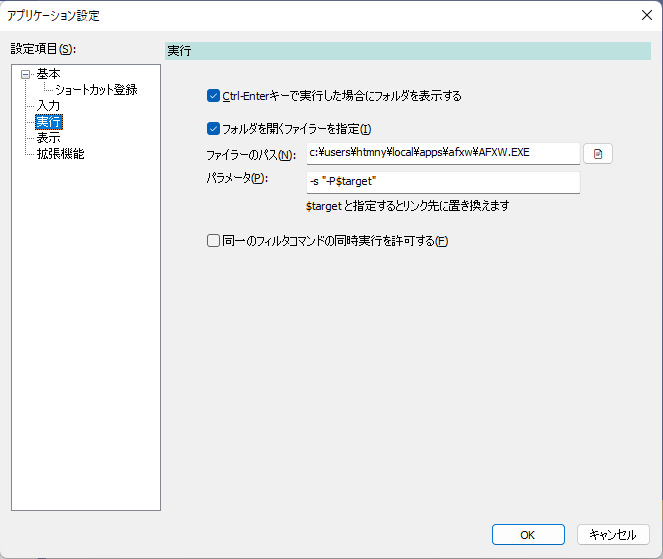
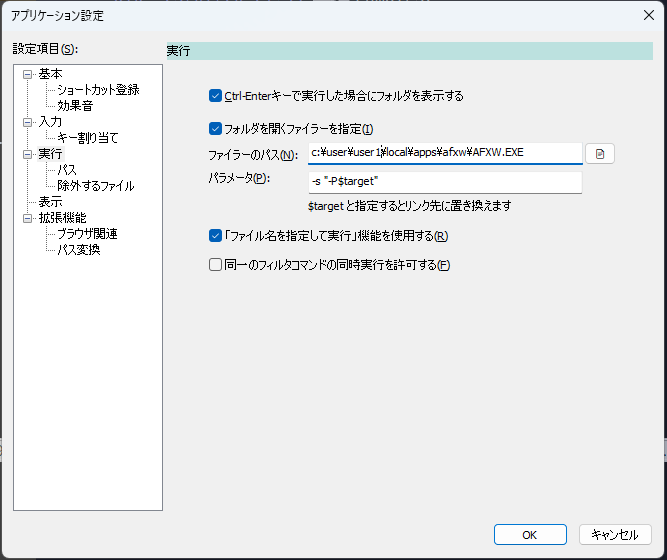
ドキュメント更新

diff --git a/doc/help.md b/doc/help.md
@@ -498,6 +498,9 @@ mp3ファイルのみ指定可能(他の音声ファイルには非対応)
   - `ファイラーのパス`で指定したファイラーを起動するときのパラメータを指定する
   - `$target`が実際に開かれる対象(ファイルやディレクトリ)のパスに置き換えられる
 
+- `「ファイル名を指定して実行」機能を使用する`
+  - チェックすると、 [`ファイル名を指定して実行`](#ファイル名を指定して実行) コマンドを有効にする。
+
 - `同一のフィルタコマンドの同時実行を許可する`
   - フィルタコマンドを実行したときに表示されるフィルタ画面が複数表示されるのを抑制する
 
@@ -526,6 +529,23 @@ mp3ファイルのみ指定可能(他の音声ファイルには非対応)
   - クリックすると、`追加のディレクトリ`リスト上の選択項目を一つ上に移動する
 - `下へ`
   - クリックすると、`追加のディレクトリ`リスト上の選択項目を一つ下に移動する
+
+#### 実行＞除外するファイル
+
+[`ファイル名を指定して実行`](#ファイル名を指定して実行) コマンドにおいて、対象外とするファイルを指定することができる。  
+
+
+![](../image/appsetting-excludefile.png)
+
+- `除外するファイル`
+  - ここで登録したファイルが候補としてマッチした場合でも、候補に表示しないようにする。
+
+- `追加`
+  - クリックすると、ファイル選択ダイアログが表示される。選択したファイルが`除外するファイル`に追加される
+- `編集`
+  - クリックすると、`追加のディレクトリ`リスト上の選択項目のパスを変更することができる
+- `削除`
+  - クリックすると、`追加のディレクトリ`リスト上の選択項目を削除することができる
 
 #### 表示
 

diff --git a/CHANGELOG.md b/CHANGELOG.md
@@ -8,6 +8,8 @@
 - 入力画面のキーバインドを設定する機能を追加
   - 上へ/下へ/決定/補完 ごとに任意のキーを割り当てることが可能
 - キーワードマネージャ画面のリストにホットキー列を追加
+- `ファイル名を指定して実行`を無効化できるようにした
+- `ファイル名を指定して実行`で対象外とするファイルを指定できるようにした
 
 ## Chanaged
 
